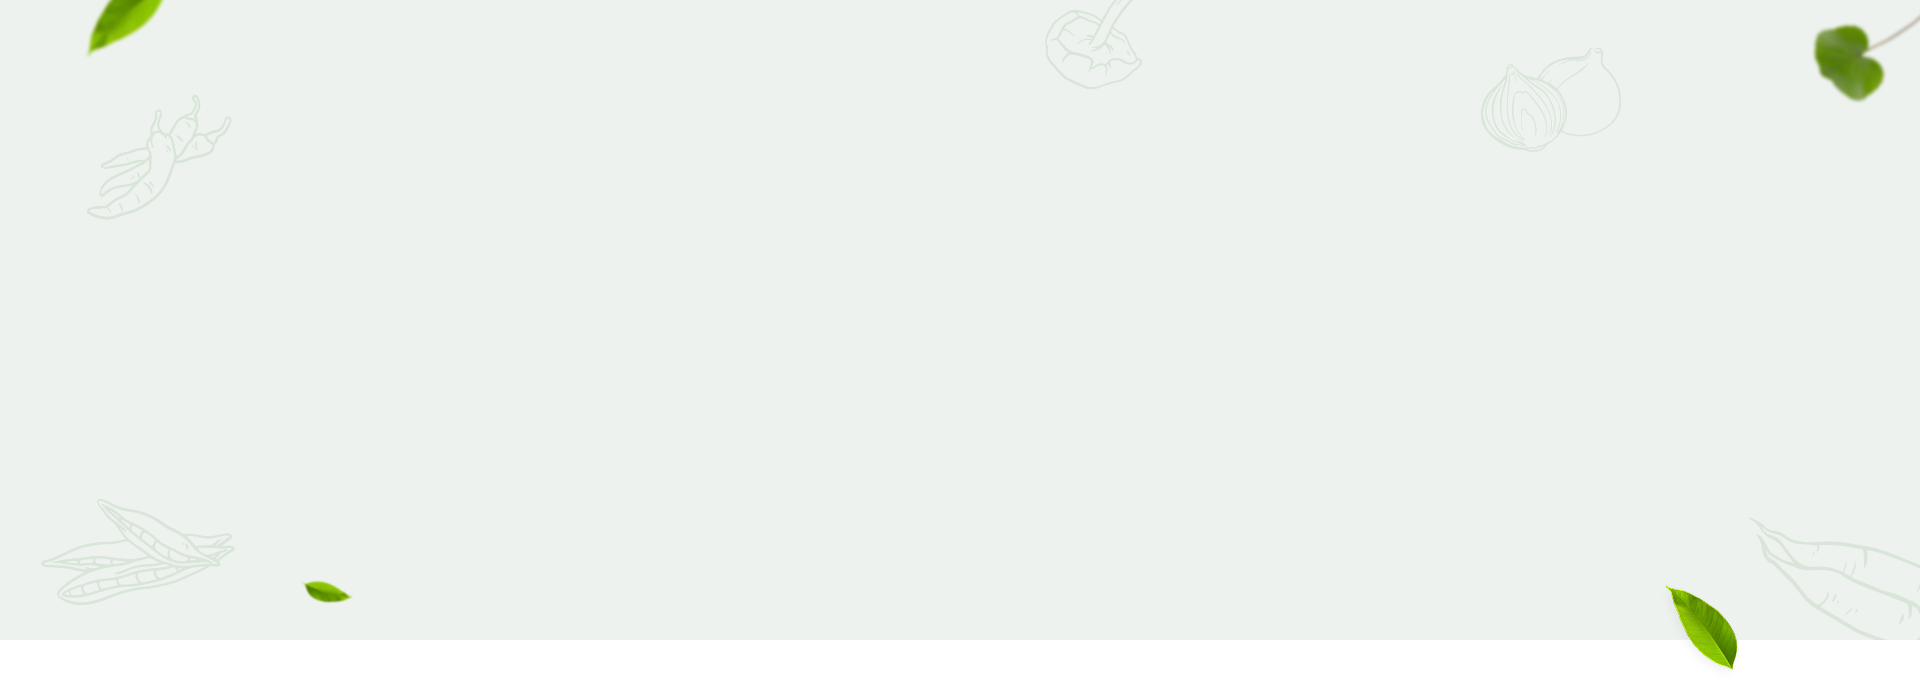
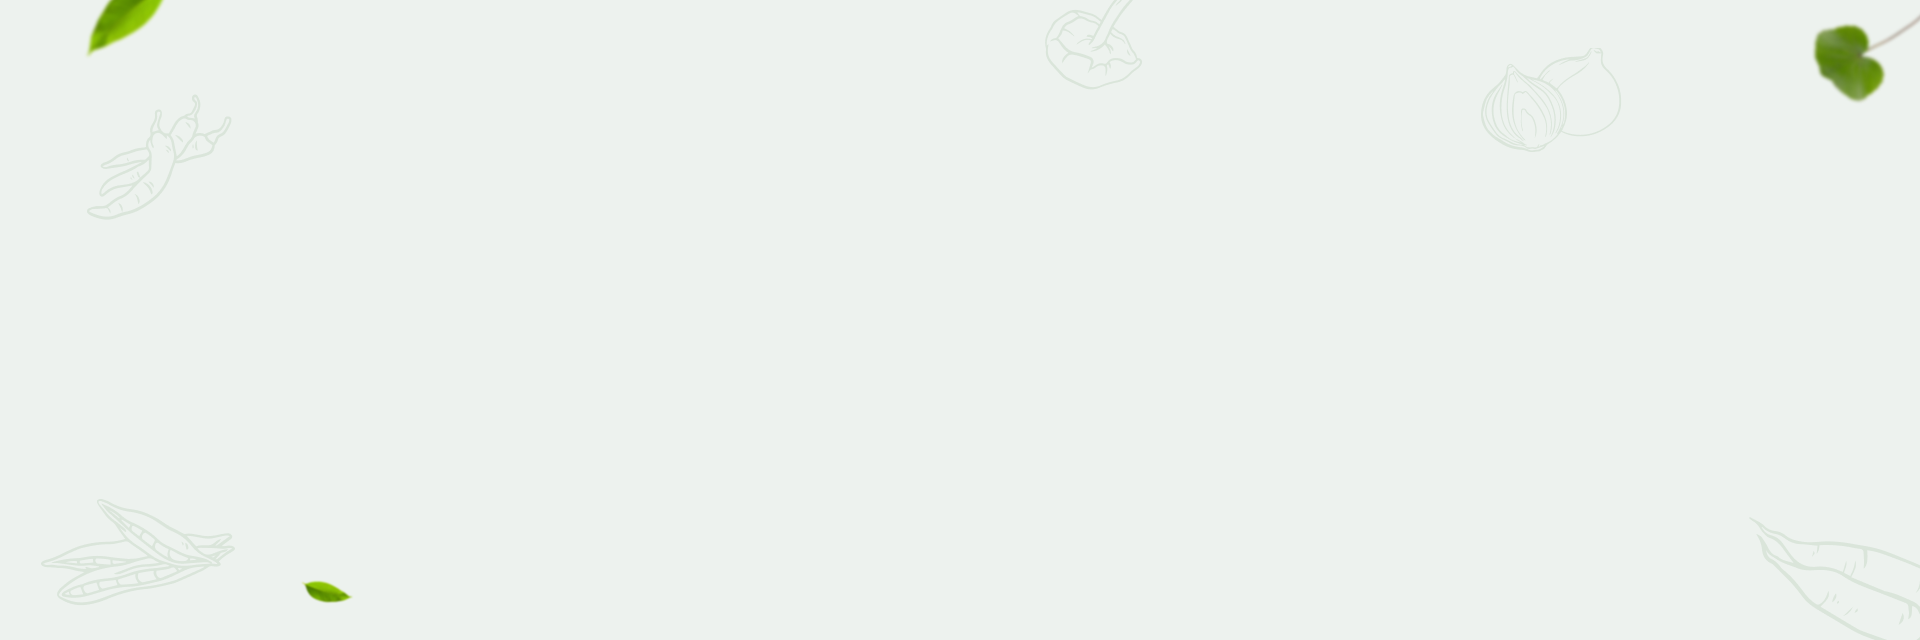
make slider fully responsive

diff --git a/src/pages/HomePage.tsx b/src/pages/HomePage.tsx
@@ -3,6 +3,7 @@ import { Link } from 'react-router-dom';
 import Slider from 'react-slick';
 import homeImg from '../assets/images/home/BG.png';
 import img1 from '../assets/images/home/img1.png';
+import leaf from '../assets/images/home/leaf.png';
 
 interface ArrowProps {
     onClick?: () => void; // onClick is an optional function
@@ -12,7 +13,7 @@ interface ArrowProps {
 const CustomNextArrow: React.FC<ArrowProps> = ({ onClick }) => {
     return (
         <div
-            className="custom-arrow next absolute top-1/2 -translate-y-1/2 bottom-0 right-[-50px] size-[45px] bg-[#fff] flex justify-center items-center rounded-full border border-[#E6E6E6] cursor-pointer"
+            className="custom-arrow next absolute top-1/2 -translate-y-1/2 bottom-0 right-0 size-[30px] sm:size-[45px]  sm:bg-[#fff] flex justify-center items-center rounded-full border border-[#E6E6E6] cursor-pointer"
             onClick={onClick}
         >
             <FaArrowRight />
@@ -24,7 +25,7 @@ const CustomNextArrow: React.FC<ArrowProps> = ({ onClick }) => {
 const CustomPrevArrow: React.FC<ArrowProps> = ({ onClick }) => {
     return (
         <div
-            className="custom-arrow prev absolute top-1/2 -translate-y-1/2 bottom-0 left-[-50px] size-[45px] bg-[#fff] flex justify-center items-center rounded-full border border-[#E6E6E6] cursor-pointer"
+            className="custom-arrow prev absolute top-1/2 -translate-y-1/2 bottom-0 left-0 size-[30px] sm:size-[45px]  sm:bg-[#fff] flex justify-center items-center rounded-full border  border-[#E6E6E6] cursor-pointer z-[999]"
             onClick={onClick}
         >
             <FaArrowLeft />
@@ -46,49 +47,53 @@ const HomePage = () => {
         nextArrow: <CustomNextArrow />, // No need to pass onClick manually
         prevArrow: <CustomPrevArrow />,
         customPaging: () => (
-            <div className="w-3 h-3 flex items-center justify-center bg-[#B4CCB4] rounded-full cursor-pointer"></div>
+            <div className="h-2 w-2 sm:w-3 sm:h-3 flex items-center justify-center bg-[#B4CCB4] rounded-full cursor-pointer"></div>
         ),
         appendDots: (dots: React.ReactNode) => (
             <div>
-                <ul className="mt-[-90px] flex justify-center">{dots}</ul>
+                <ul className="mt-[-40px] sm:mt-[-50px] flex justify-center">
+                    {dots}
+                </ul>
             </div>
         ),
     };
 
     return (
         <div>
-            <div
-                style={divStyle}
-                className="bg-no-repeat max-w-screen h-screen bg-contain"
-            >
-                <div className="max-width">
+            <div style={divStyle} className="bg-no-repeat bg-cover">
+                <div className="max-width relative">
                     <Slider {...settings}>
                         <div>
-                            <div className="flex gap-10 items-center py-20">
-                                <img
-                                    src={img1}
-                                    alt=""
-                                    className="object-contain"
-                                />
-                                <div>
-                                    <p className="text-primary text-sm font-medium">
+                            <div className="flex gap-2 sm:gap-7 lg:gap-10 items-center justify-center py-6 sm:py-10 lg:py-20">
+                                <div className="w-[45%] lg:w-[55%] max-h-[480px]">
+                                    <img
+                                        src={img1}
+                                        alt=""
+                                        className="object-contain"
+                                    />
+                                </div>
+                                <div className="w-[55%] sm:w-[45%]">
+                                    <p className="text-primary text-xs sm:text-sm font-medium">
                                         Welcome to shopery
                                     </p>
-                                    <h1 className="text-[#1a1a1a] font-semibold text-6xl leading-[120%] pt-2">
+                                    <h1 className="text-[#1a1a1a] font-semibold text-md sm:text-3xl md:text-4xl lg:text-5xl xl:text-6xl xl:leading-[120%] pt-2">
                                         Fresh & Healthy Organic Food
                                     </h1>
-                                    <p className="text-3xl pt-7 text-[#1a1a1a]">
+                                    <p className="text-sm sm:text-xl md:text-3xl pt-1 md:pt-3 lg:pt-7 text-[#1a1a1a]">
                                         Sale up to{' '}
                                         <span className="text-[#FF8A00]">
                                             30% OFF
                                         </span>
                                     </p>
-                                    <p className="text-[#808080] text-sm pt-3">
+                                    <p className="text-[#808080] text-xs sm:text-sm pt-1 md:pt-3">
                                         Free shipping on all your order. we
                                         deliver, you enjoy
                                     </p>
-                                    <Link to="/shop" className="block mt-8">
-                                        <button className="flex gap-1 items-center  bg-primary text-white py-3 px-10 rounded-[53px]">
+                                    <Link
+                                        to="/shop"
+                                        className="block mt-2 sm:mt-4 lg:mt-8"
+                                    >
+                                        <button className="flex gap-1 items-center  bg-primary text-white py-2 lg:py-3 px-5 sm:px-10 text-xs sm:text-base rounded-[53px]">
                                             Shop now <FaArrowRight />
                                         </button>
                                     </Link>
@@ -96,31 +101,36 @@ const HomePage = () => {
                             </div>
                         </div>
                         <div>
-                            <div className="flex gap-10 items-center py-20">
-                                <img
-                                    src={img1}
-                                    alt=""
-                                    className="object-contain"
-                                />
-                                <div>
-                                    <p className="text-primary text-sm font-medium">
+                            <div className="flex gap-2 sm:gap-7 lg:gap-10 items-center justify-center py-6 sm:py-10 lg:py-20">
+                                <div className="w-[45%] lg:w-[55%] max-h-[480px]">
+                                    <img
+                                        src={img1}
+                                        alt=""
+                                        className="object-contain"
+                                    />
+                                </div>
+                                <div className="w-[55%] sm:w-[45%]">
+                                    <p className="text-primary text-xs sm:text-sm font-medium">
                                         Welcome to shopery
                                     </p>
-                                    <h1 className="text-[#1a1a1a] font-semibold text-6xl leading-[120%] pt-2">
+                                    <h1 className="text-[#1a1a1a] font-semibold text-md sm:text-3xl md:text-4xl lg:text-5xl xl:text-6xl xl:leading-[120%] pt-2">
                                         Fresh & Healthy Organic Food
                                     </h1>
-                                    <p className="text-3xl pt-7 text-[#1a1a1a]">
+                                    <p className="text-sm sm:text-xl md:text-3xl pt-1 md:pt-3 lg:pt-7 text-[#1a1a1a]">
                                         Sale up to{' '}
                                         <span className="text-[#FF8A00]">
                                             30% OFF
                                         </span>
                                     </p>
-                                    <p className="text-[#808080] text-sm pt-3">
+                                    <p className="text-[#808080] text-xs sm:text-sm pt-1 md:pt-3">
                                         Free shipping on all your order. we
                                         deliver, you enjoy
                                     </p>
-                                    <Link to="/shop" className="block mt-8">
-                                        <button className="flex gap-1 items-center  bg-primary text-white py-3 px-10 rounded-[53px]">
+                                    <Link
+                                        to="/shop"
+                                        className="block mt-2 sm:mt-4 lg:mt-8"
+                                    >
+                                        <button className="flex gap-1 items-center  bg-primary text-white py-2 lg:py-3 px-5 sm:px-10 text-xs sm:text-base rounded-[53px]">
                                             Shop now <FaArrowRight />
                                         </button>
                                     </Link>
@@ -128,31 +138,36 @@ const HomePage = () => {
                             </div>
                         </div>
                         <div>
-                            <div className="flex gap-10 items-center py-20">
-                                <img
-                                    src={img1}
-                                    alt=""
-                                    className="object-contain"
-                                />
-                                <div>
-                                    <p className="text-primary text-sm font-medium">
+                            <div className="flex gap-2 sm:gap-7 lg:gap-10 items-center justify-center py-6 sm:py-10 lg:py-20">
+                                <div className="w-[45%] lg:w-[55%] max-h-[480px]">
+                                    <img
+                                        src={img1}
+                                        alt=""
+                                        className="object-contain"
+                                    />
+                                </div>
+                                <div className="w-[55%] sm:w-[45%]">
+                                    <p className="text-primary text-xs sm:text-sm font-medium">
                                         Welcome to shopery
                                     </p>
-                                    <h1 className="text-[#1a1a1a] font-semibold text-6xl leading-[120%] pt-2">
+                                    <h1 className="text-[#1a1a1a] font-semibold text-md sm:text-3xl md:text-4xl lg:text-5xl xl:text-6xl xl:leading-[120%] pt-2">
                                         Fresh & Healthy Organic Food
                                     </h1>
-                                    <p className="text-3xl pt-7 text-[#1a1a1a]">
+                                    <p className="text-sm sm:text-xl md:text-3xl pt-1 md:pt-3 lg:pt-7 text-[#1a1a1a]">
                                         Sale up to{' '}
                                         <span className="text-[#FF8A00]">
                                             30% OFF
                                         </span>
                                     </p>
-                                    <p className="text-[#808080] text-sm pt-3">
+                                    <p className="text-[#808080] text-xs sm:text-sm pt-1 md:pt-3">
                                         Free shipping on all your order. we
                                         deliver, you enjoy
                                     </p>
-                                    <Link to="/shop" className="block mt-8">
-                                        <button className="flex gap-1 items-center  bg-primary text-white py-3 px-10 rounded-[53px]">
+                                    <Link
+                                        to="/shop"
+                                        className="block mt-2 sm:mt-4 lg:mt-8"
+                                    >
+                                        <button className="flex gap-1 items-center  bg-primary text-white py-2 lg:py-3 px-5 sm:px-10 text-xs sm:text-base rounded-[53px]">
                                             Shop now <FaArrowRight />
                                         </button>
                                     </Link>
@@ -160,6 +175,11 @@ const HomePage = () => {
                             </div>
                         </div>
                     </Slider>
+                    <img
+                        src={leaf}
+                        alt=""
+                        className="absolute bottom-[-30px] sm:bottom-[-40px] md:bottom-[-50px] lg:[-60px] right-0 object-contain size-16 sm:size-20 md:size-24"
+                    />
                 </div>
             </div>
         </div>
